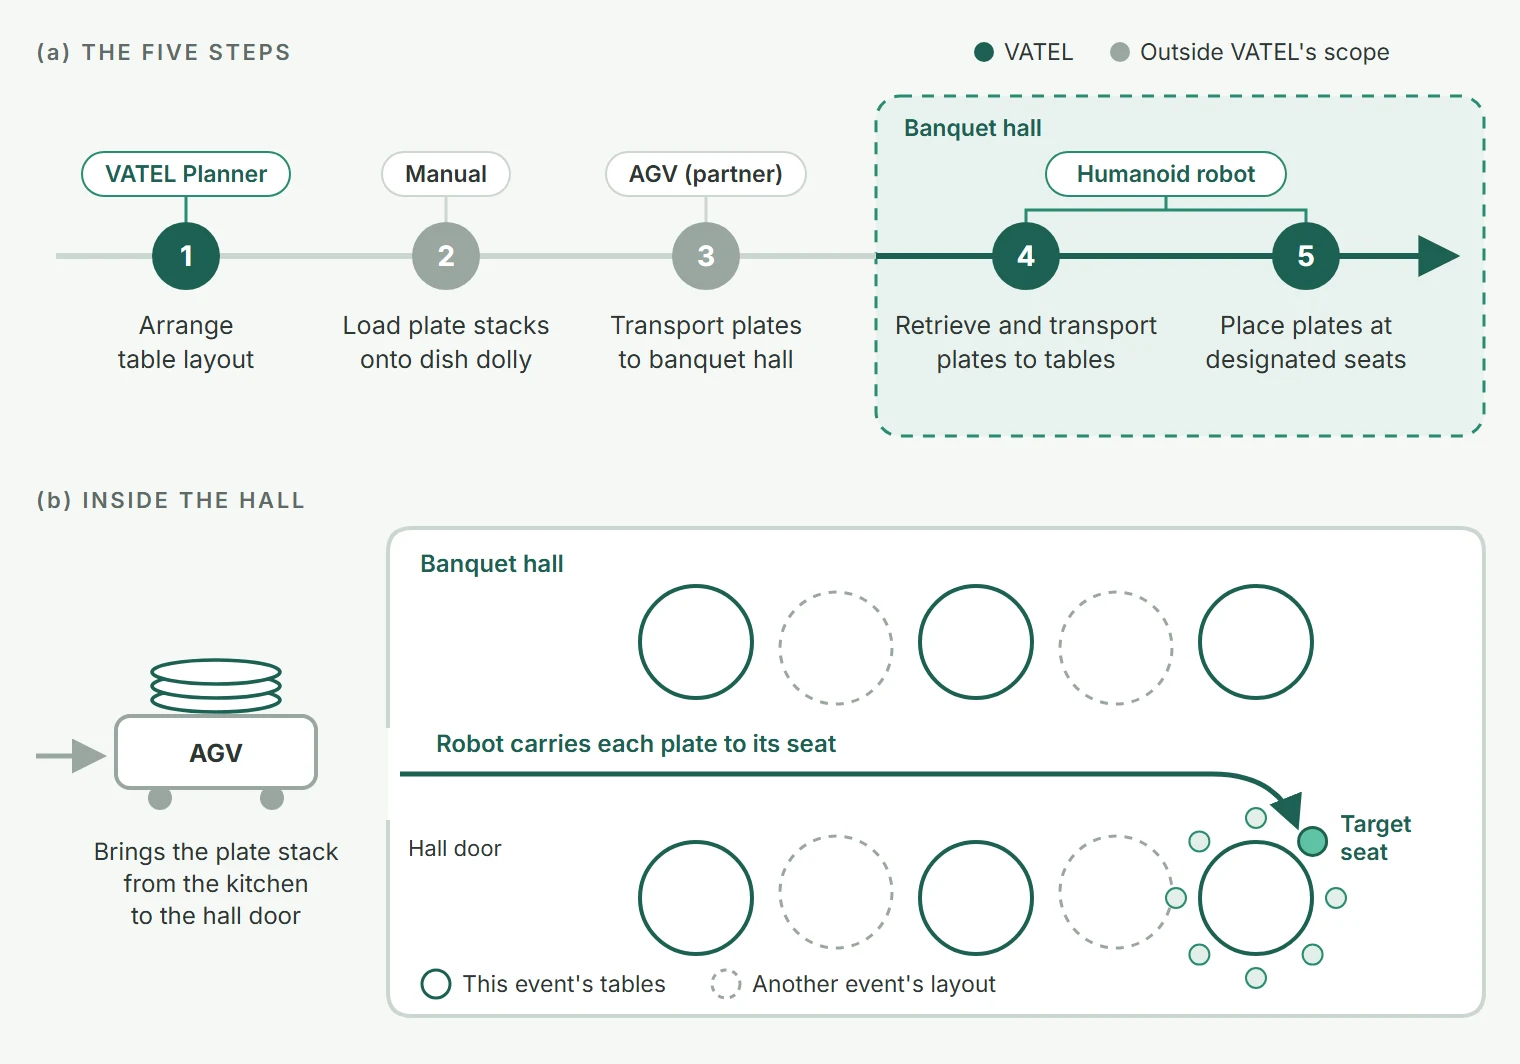
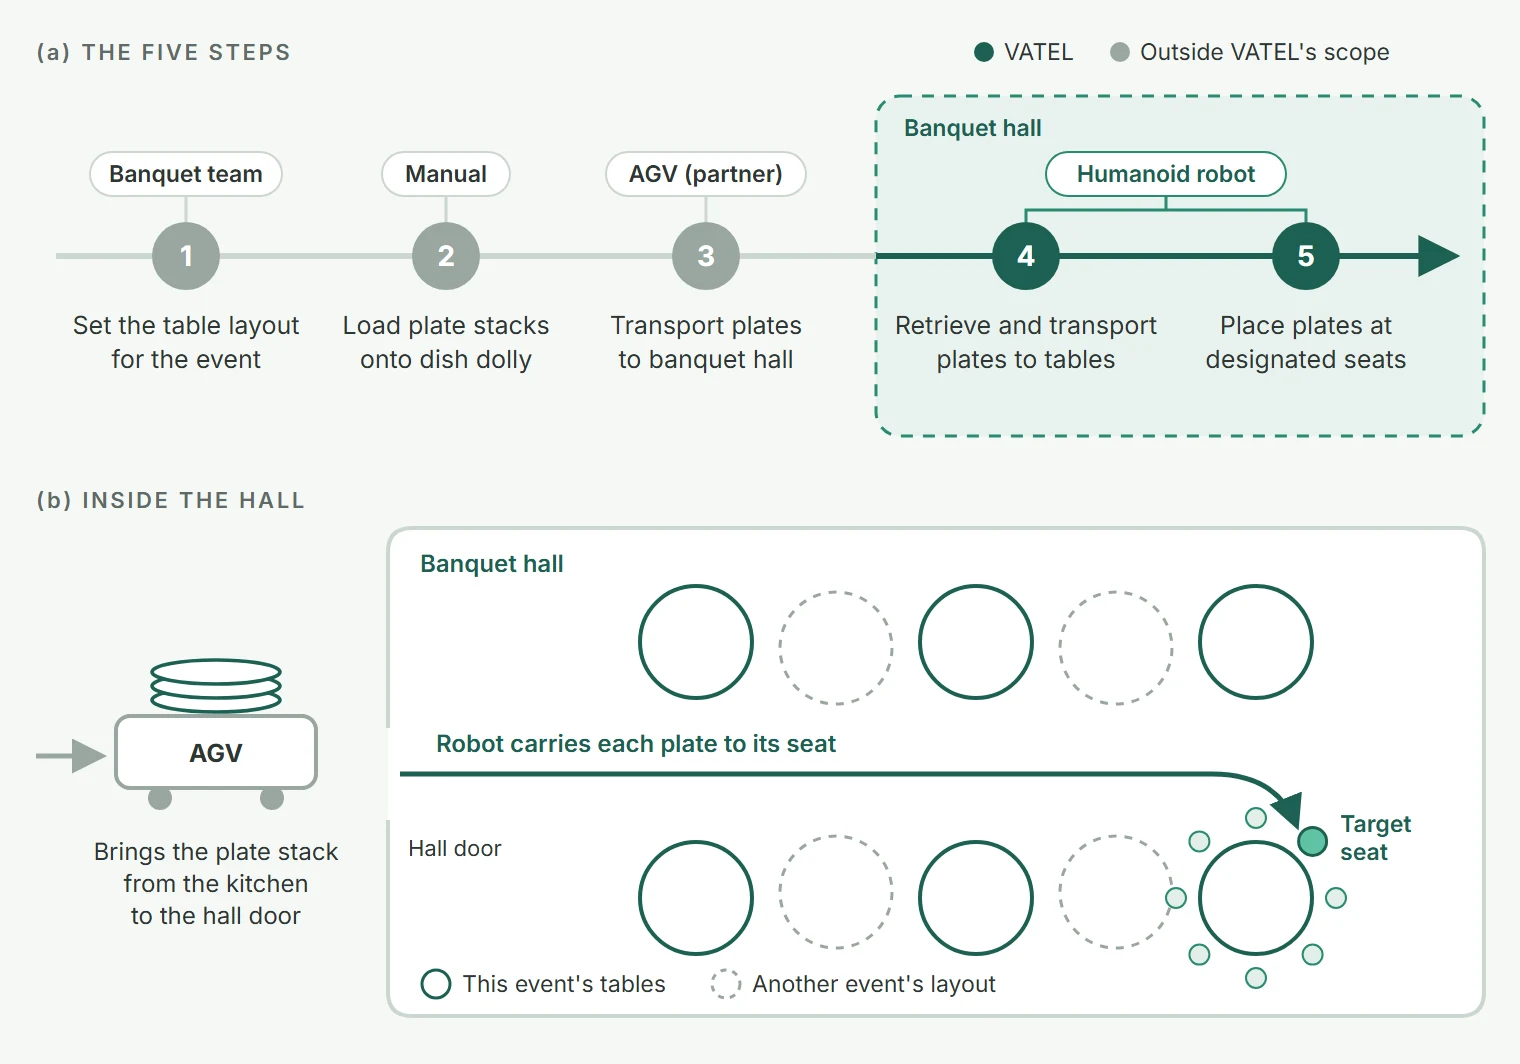
Make 1.4 about scoping the project to the work inside the hall
Step 1 of the workflow is now the banquet team setting the layout, so the
planner is not named before it is introduced, and the text, tables and figure
all point to the two in-hall steps as VATEL's scope.

Changed region(s): [[0.0618, 0.1241, 0.1855, 0.3722]]

diff --git a/docs/interim-report/sections/01-introduction.md b/docs/interim-report/sections/01-introduction.md
@@ -89,17 +89,20 @@ Unitree R1 humanoid robot to optimise banquet setup by automating plate setup?*
 ### 1.4. Objectives and Scope
 
 The plate-setting workflow consists of five steps (Figure [[fig:workflow]] and Table
-[[tab:workflow]]), as summarised below. The industry partner is deploying an **automated guided vehicle (AGV)** to
-transport plate stacks from the kitchen to the banquet hall entrance. VATEL focuses on the subsequent
-in-hall operations: planning the table layout and using the humanoid robot to retrieve and distribute
-plates.
+[[tab:workflow]]). The first three get the layout decided and the plates to the hall: the banquet
+team sets the table layout for the event, staff load plate stacks onto a dish dolly, and the
+industry partner is deploying an **automated guided vehicle (AGV)** to transport them from the
+kitchen to the banquet hall entrance. The project is therefore scoped to the work **inside the
+hall** (Table [[tab:scope]]): retrieving plates from the AGV at the entrance and placing each one at
+its designated seat. Because the layout changes with every event, the robot must also know where
+each table and seat is, but moving tables and chairs stays out of scope.
 
-![fig:workflow | The plate-setting workflow: (a) the five steps, with the parts VATEL handles in green; (b) inside the hall, the robot carries each plate from the AGV at the door to its seat, on a layout that changes from one event to the next](../assets/interim/intro-workflow.webp)
+![fig:workflow | The plate-setting workflow: (a) the five steps, of which VATEL takes on the two inside the banquet hall; (b) inside the hall, the robot carries each plate from the AGV at the door to its seat, on a layout that changes from one event to the next](../assets/interim/intro-workflow.webp)
 
 Table: tab:workflow | The current plate-setting workflow, and the part VATEL addresses
-| Step | Process | Responsible system |
+| Step | Process | Done by |
 | --- | --- | --- |
-| 1 | Arrange table layout | VATEL Planner |
+| 1 | Set the table layout for the event | Banquet team |
 | 2 | Load plate stacks onto dish dolly | Manual |
 | 3 | Transport plates to banquet hall | AGV (partner) |
 | 4 | Retrieve and transport plates to tables | Humanoid robot |
@@ -107,7 +110,7 @@ Table: tab:workflow | The current plate-setting workflow, and the part VATEL add
 
 By the end of CDE4301, VATEL aims to achieve three objectives:
 
-1. Transfer the banquet hall layout from the planner to the robot.
+1. Transfer the event's banquet hall layout to the robot.
 2. Navigate autonomously to each designated table position and stop accurately and consistently.
 3. Retrieve plates from the AGV and place them at their designated table positions.
 
@@ -116,4 +119,4 @@ Table: tab:scope | Project scope
 | --- | --- |
 | In-hall operations, from the AGV at the entrance to individual seats | Kitchen-to-hall transportation (handled by the partner's AGV) |
 | Porcelain dinner plates, one per trip | Cutlery, glassware, bowls and linen |
-| Table layout planning and plate-position assignment | Moving tables and chairs |
+| Knowing the event's table layout and each plate's position | Moving tables and chairs |
